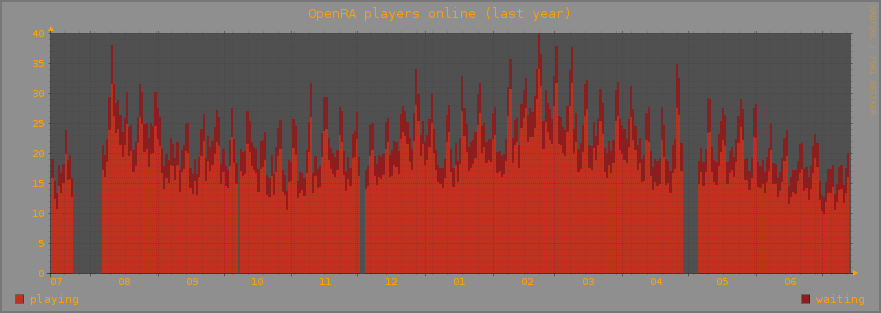
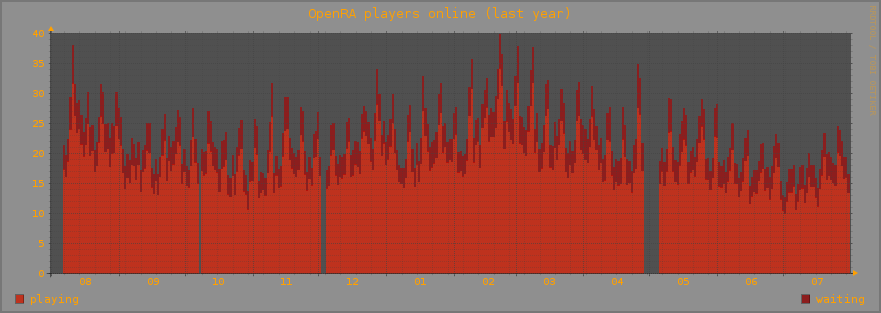
update db

diff --git a/log/redraw.ts b/log/redraw.ts
@@ -1,1 +1,1 @@
-2015-07-13 14:22:06
+2015-07-31 08:55:06
